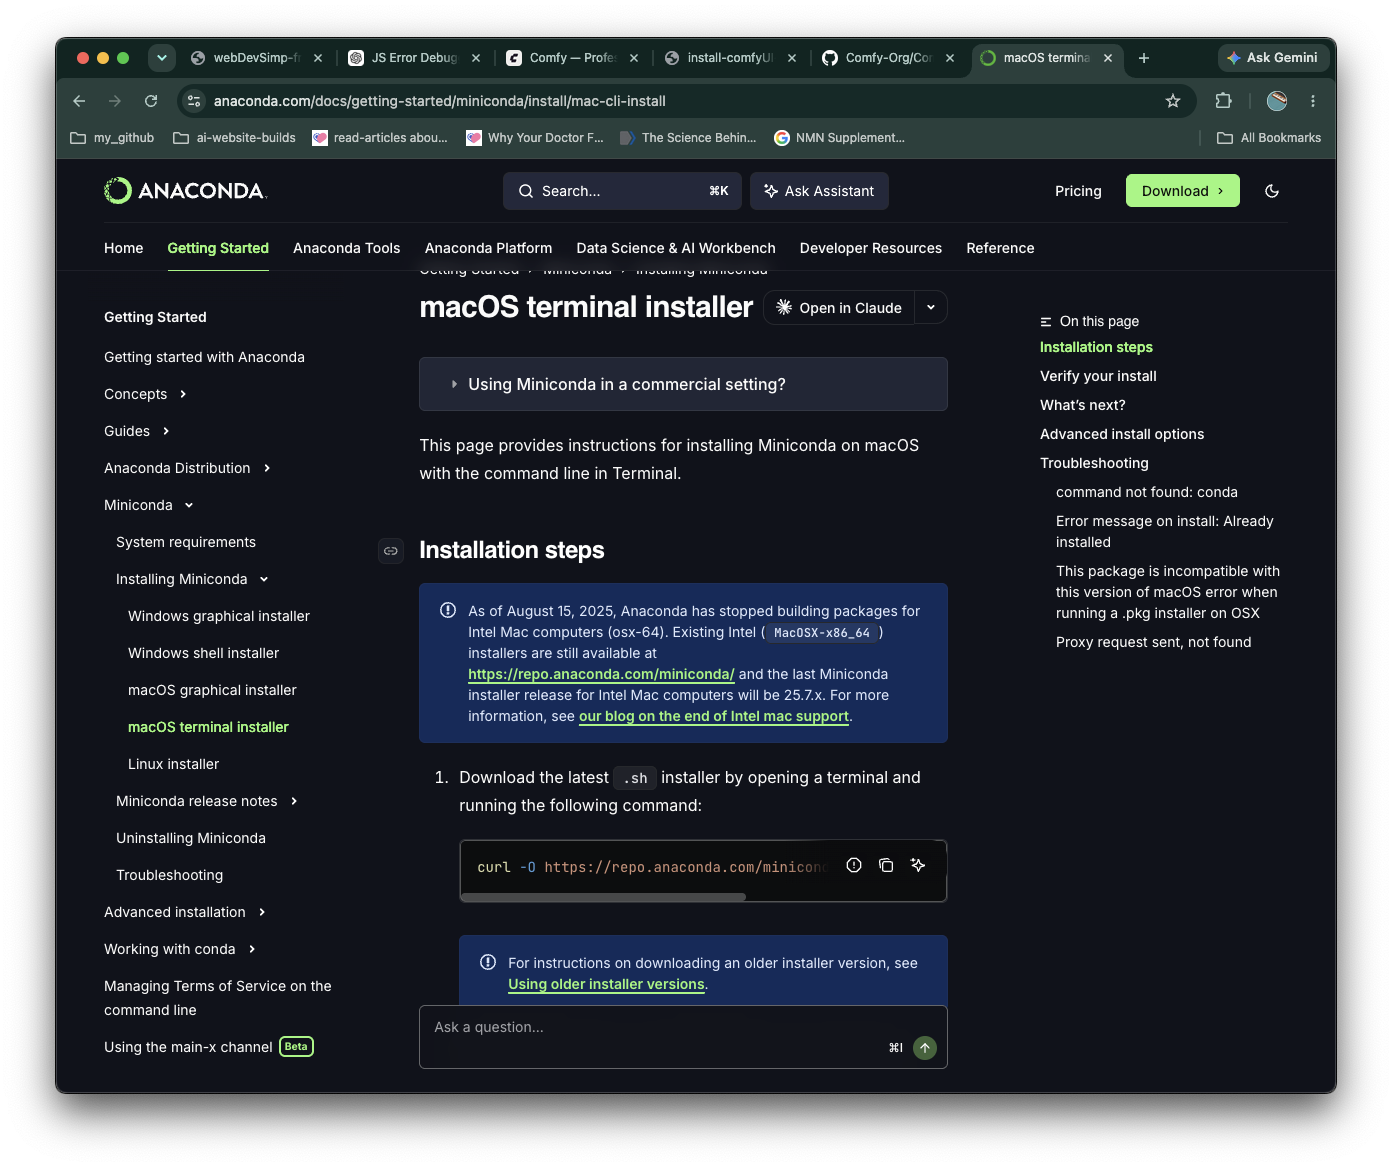
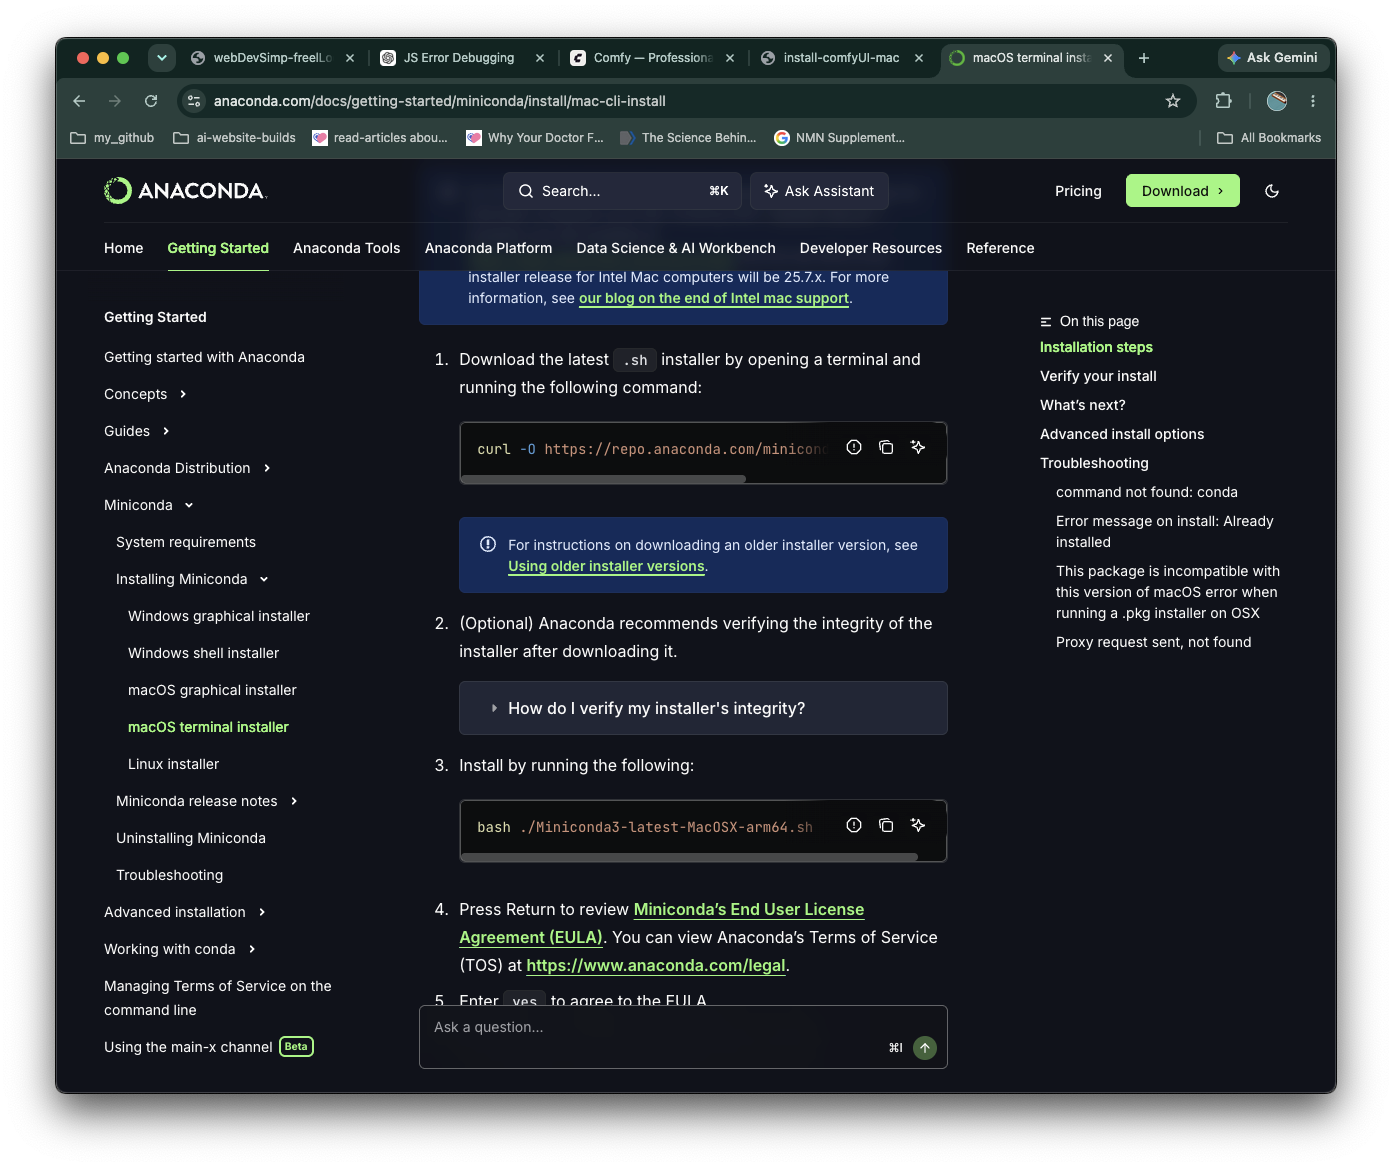
main

Changed region(s): [[0.278, 0.1542, 0.6796, 0.8638], [0.2162, 0.0308, 0.7723, 0.0617], [0.4943, 0.1542, 0.6178, 0.1851]]

diff --git a/resources/mango-borgo/install-comfyUI-mac/side-bar-links-html/01/01-01/01-01.html b/resources/mango-borgo/install-comfyUI-mac/side-bar-links-html/01/01-01/01-01.html
@@ -7,9 +7,7 @@
         <!-- 1. -->
         <div tabindex="0" class="step-float" data-video="https://www.youtube.com/watch?app=desktop&v=pTiRfPuTuvU&ra=m"
             data-timestamp="30">
-            <div class="step-img">
-                <img loading="lazy" src="side-bar-links-html/01/01-01/images/01.png" alt="">
-            </div>
+            
             <div class="step-txt ">
                 <h4>1 Install Python Environment Manger</h4>
                 <p>
@@ -17,7 +15,28 @@
                      <a rel="noopener noreferrer" target="_blank" href="https://www.anaconda.com/docs/getting-started/miniconda/install/mac-cli-install">
                         https://www.anaconda.com/docs/getting-started/miniconda/install/mac-cli-install
                      </a>
+                     paste the commands from that site or from her
                 </p>            
+                <div class="code-container">
+                    <code tabindex="0" class="copy-code">
+                        curl -O https://repo.anaconda.com/miniconda/Miniconda3-latest-MacOSX-arm64.sh</code>
+                </div>
+                <p>
+                    This step is (Optional) 
+                </p>
+                <div class="code-container">
+                    <code tabindex="0" class="copy-code">
+                        bash ./Miniconda3-latest-MacOSX-arm64.sh</code>
+                </div>
+                <div class="code-container">
+                    <code tabindex="0" class="copy-code">
+                        source ~/.zshrc</code>
+                </div>
+            </div>
+            <div class="imgs-container">
+                <div class="step-img">
+                    <img loading="lazy" src="side-bar-links-html/01/01-01/images/01.png" alt="">
+                </div>
             </div>
         </div>
         